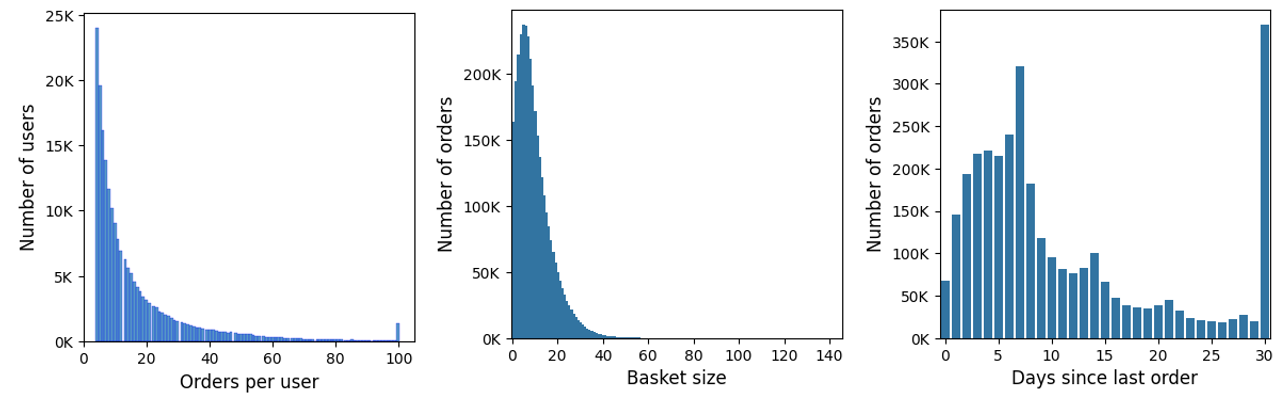
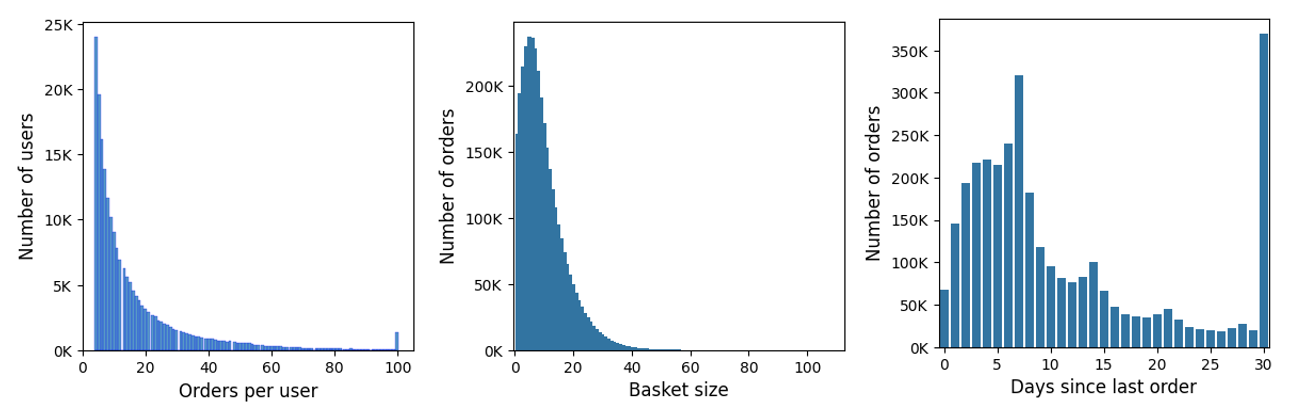
working point

diff --git a/content/project/instacart_dataset_EDA/index.md b/content/project/instacart_dataset_EDA/index.md
@@ -225,7 +225,9 @@ sns.barplot(df, y='count', x='days_since_prior_order')
 {{< figure src="/images/instacart/instacart005158.png" class="round" >}}
 
 {{< alert tip "Insight" "<svg class='alert-icon' xmlns='http://www.w3.org/2000/svg' viewBox='0 0 24 24'><path fill='#28a745' d='m17.989,4.341l-1.709-1.041L18.266.04l1.709,1.041-1.985,3.26Zm5.161.206l-3.331,1.504.822,1.822,3.331-1.504-.822-1.822Zm-5.54,1.75c1.541,1.517,2.39,3.542,2.39,5.703,0,2.295-.99,4.481-2.718,5.999-.814.717-1.282,1.833-1.282,3.064v2.937h-8v-3.07c0-1.155-.453-2.211-1.244-2.897-1.836-1.593-2.838-3.898-2.75-6.326.149-4.179,3.675-7.636,7.858-7.705,2.15-.042,4.205.779,5.746,2.296Zm-3.61,14.767c0-.362.036-.716.092-1.063h-4.169c.046.305.077.614.077.93v1.07h4v-.937Zm4-9.063c0-1.621-.637-3.141-1.793-4.277-1.155-1.138-2.691-1.751-4.31-1.722-3.138.052-5.781,2.644-5.894,5.777-.065,1.82.687,3.549,2.062,4.744.481.417.879.919,1.188,1.478h1.745v-4.184c-1.161-.414-2-1.514-2-2.816h2c0,.552.448,1,1,1s1-.448,1-1h2c0,1.302-.839,2.402-2,2.816v4.184h1.767c.312-.569.713-1.079,1.195-1.503,1.295-1.139,2.038-2.777,2.038-4.497ZM7.725,3.3L5.739.04l-1.709,1.041,1.985,3.26,1.709-1.041ZM.854,4.547L.032,6.369l3.33,1.504.822-1.822-3.33-1.504Z'/></svg>" >}}
-
+- 
+- basket sizes range from 1 to 112 with a peak at baskets with 5 products in it
+- days since last order peaks at 7 days indicating weekly ordering pattern of a good amount of users. this variable is also capped at a value of 30.
 {{< /alert >}}
 
  
